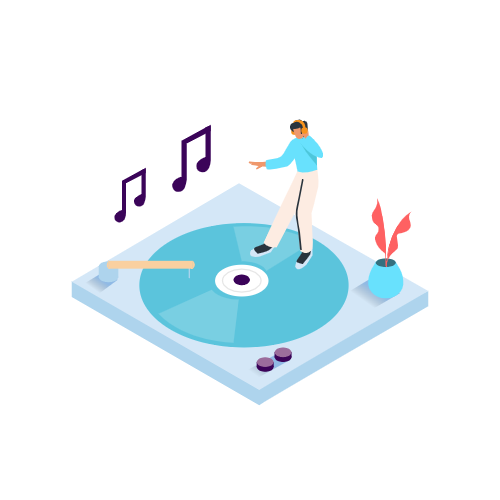
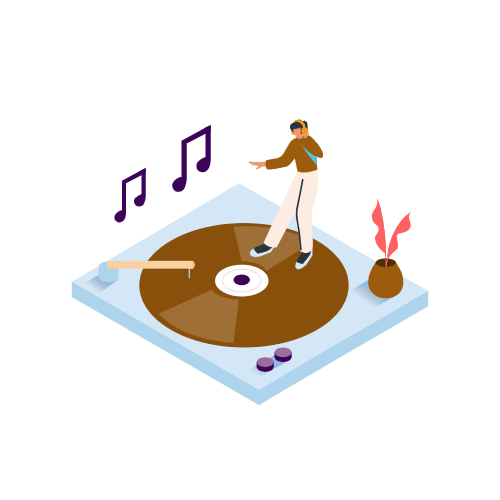
music project completed

Changed region(s): [[0.27, 0.42, 0.81, 0.72], [0.51, 0.27, 0.66, 0.36]]

diff --git a/css/main.css b/css/main.css
@@ -19,7 +19,7 @@ a, a:hover {
 }
 
 .navbar {
-  background-color: #0F044C;
+  background-color: #9D5C0D;
   width: 100vw;
   line-height: 8rem;
 }
@@ -37,7 +37,7 @@ a, a:hover {
 }
 
 .navbar .container .navbar-brand:hover {
-  color: #ac1212;
+  color: #F7D08A;
   -webkit-filter: drop-shadow(0 1.5rem 1rem rgba(255, 255, 255, 0.5));
           filter: drop-shadow(0 1.5rem 1rem rgba(255, 255, 255, 0.5));
 }
@@ -56,19 +56,20 @@ a, a:hover {
 
 .navbar .nav-item-list .button {
   padding: 0.8rem 3.2rem;
-  background-color: #ac1212;
-  color: #EEEEEE;
+  background-color: #F7D08A;
+  color: #777373;
   line-height: 3rem;
   font-size: 1.6rem;
   text-transform: capitalize;
   -webkit-box-shadow: 0px 8px 15px rgba(0, 0, 0, 0.1);
           box-shadow: 0px 8px 15px rgba(0, 0, 0, 0.1);
   border-radius: 4.5rem;
+  font-weight: 600;
 }
 
 .navbar .nav-item-list .button:hover {
-  background-color: #EEEEEE;
-  color: #ac1212;
+  background-color: #777373;
+  color: #F7D08A;
   -webkit-box-shadow: 0px 11.5px 20px rgba(196, 181, 181, 0.747);
           box-shadow: 0px 11.5px 20px rgba(196, 181, 181, 0.747);
   -webkit-transform: translateY(-7px);
@@ -94,6 +95,146 @@ a, a:hover {
   to {
     -webkit-transform: rotate(-2deg);
             transform: rotate(-2deg);
+  }
+}
+
+.hero {
+  background-color: #E5890A;
+  padding: 2rem 0;
+}
+
+.hero .hero_text {
+  display: -webkit-box;
+  display: -ms-flexbox;
+  display: flex;
+  -webkit-box-pack: center;
+      -ms-flex-pack: center;
+          justify-content: center;
+  -webkit-box-align: start;
+      -ms-flex-align: start;
+          align-items: flex-start;
+  -webkit-box-orient: vertical;
+  -webkit-box-direction: normal;
+      -ms-flex-direction: column;
+          flex-direction: column;
+  text-transform: capitalize;
+}
+
+.hero .hero_text_heading {
+  font-weight: 700;
+  font-size: 4rem;
+  color: #EEEEEE;
+  margin-bottom: 4rem;
+}
+
+.hero .hero_text_para {
+  color: #EEEEEE;
+  margin-bottom: 4rem;
+  line-height: 2rem;
+}
+
+.hero .hero_text .hero_span {
+  color: #F7D08A;
+}
+
+.hero .hero_text a {
+  padding: 0.8rem 3.2rem;
+  background-color: #F7D08A;
+  color: #777373;
+  line-height: 3rem;
+  font-size: 1.6rem;
+  text-transform: capitalize;
+  -webkit-box-shadow: 0px 8px 15px rgba(0, 0, 0, 0.1);
+          box-shadow: 0px 8px 15px rgba(0, 0, 0, 0.1);
+  border-radius: 4.5rem;
+  font-weight: 600;
+}
+
+.hero .hero_text .hero_button1 {
+  margin-right: 1rem;
+}
+
+.hero .hero_text .hero_button2 {
+  background-color: grey;
+  color: #dbd3d3;
+}
+
+.hero .hero_figure {
+  display: -webkit-box;
+  display: -ms-flexbox;
+  display: flex;
+  -webkit-box-pack: center;
+      -ms-flex-pack: center;
+          justify-content: center;
+  -webkit-box-align: end;
+      -ms-flex-align: end;
+          align-items: flex-end;
+  -webkit-box-orient: vertical;
+  -webkit-box-direction: normal;
+      -ms-flex-direction: column;
+          flex-direction: column;
+}
+
+.hero .hero_figure img {
+  -webkit-filter: drop-shadow(0 1.5rem 1rem rgba(0, 0, 0, 0.5));
+          filter: drop-shadow(0 1.5rem 1rem rgba(0, 0, 0, 0.5));
+  -webkit-animation: image_hero 1s linear infinite alternate;
+          animation: image_hero 1s linear infinite alternate;
+}
+
+@-webkit-keyframes image_hero {
+  0% {
+    -webkit-transform: scale(0.97);
+            transform: scale(0.97);
+  }
+  100% {
+    -webkit-transform: scale(1);
+            transform: scale(1);
+  }
+}
+
+@keyframes image_hero {
+  0% {
+    -webkit-transform: scale(0.97);
+            transform: scale(0.97);
+  }
+  100% {
+    -webkit-transform: scale(1);
+            transform: scale(1);
+  }
+}
+
+@media only screen and (max-width: 960px) {
+  html {
+    font-size: 55%;
+  }
+  .navbar {
+    line-height: 4rem;
+  }
+  .nav-item-list {
+    text-align: center;
+  }
+  .navbar .nav-item-list .navbar-nav .nav-item {
+    padding-right: 0%;
+  }
+  .navbar .nav-item-list .navbar-nav li:last-child {
+    padding-right: 0%;
+  }
+  .btn_content .hero_button1, .btn_content .hero_button2 {
+    display: block;
+    margin: 0 auto 1rem auto;
+  }
+}
+
+@media only screen and (max-width: 720px) {
+  html {
+    font-size: 45%;
+  }
+}
+
+@media only screen and (max-width: 480px) {
+  html {
+    font-size: 30%;
   }
 }
 /*# sourceMappingURL=main.css.map */

diff --git a/scss/main.scss b/scss/main.scss
@@ -17,6 +17,7 @@ body{
 a, a:hover{
     text-decoration: none;
 }
+// nav start
 .navbar{
     background-color: $primary-color;
     width: 100vw;
@@ -57,5 +58,98 @@ a, a:hover{
         to{
             transform: rotate(-2deg);
         }
+    }
+}
+// nav end
+// hero start
+.hero{
+    background-color: $secondary-color;
+    padding: 2rem 0;
+    #{&}_text{
+        @include centerize_content(flex-start);
+        text-transform: capitalize;
+        &_heading{
+            font-weight: 700;
+            font-size: 4rem;
+            color: $text-color;
+            margin-bottom: 4rem;
+        }
+        &_para{
+            color: $text-color;
+            margin-bottom: 4rem;
+            line-height: 2rem;
+        }
+        & .hero_span{
+            color: $btn-color;
+        }
+        & a{
+            @include mybtn;
+        }
+        & .hero_button1{
+            margin-right: 1rem;
+        }
+        & .hero_button2{
+            background-color: grey;
+            color: rgb(219, 211, 211);
+        }
+
+    }
+    #{&}_figure{
+        @include centerize_content(flex-end);
+        & img{
+            filter: drop-shadow(0 1.5rem 1rem rgba(0, 0, 0, 0.5));
+            animation: image_hero 1s linear infinite alternate;
+        }
+    
+       
+    }
+    @keyframes image_hero {
+        0%{
+            transform: scale(0.97);
+        }
+        100%{
+           transform: scale(1);
+        }
+    }
+}
+// hero end
+
+// media
+@media only screen and (max-width: 960px) {
+    html{
+        font-size: 55%;
+    }
+    .navbar{
+        line-height: 4rem;
+        
+    }
+    .nav-item-list{
+        text-align: center;
+    } 
+    .navbar .nav-item-list .navbar-nav .nav-item {
+        padding-right: 0%;
+    }
+    .navbar .nav-item-list .navbar-nav li:last-child {
+        padding-right: 0%;
+    }
+
+    .btn_content{
+       
+        .hero_button1,.hero_button2{
+            display: block;
+            margin: 0 auto 1rem auto;
+            
+        }
+    }
+}
+@media only screen and (max-width: 720px) {
+    html{
+        font-size: 45%;
+    }
+    
+}
+@media only screen and (max-width: 480px) {
+    html{
+        font-size: 30%;
     }
 }

diff --git a/index.html b/index.html
@@ -51,16 +51,19 @@
     <div class="hero">
         <div class="container">
             <div class="row">
-                <div class="col-lg-6 col-12">
+                <div class="col-lg-6 col-12 hero_text">
                     <div>
-                        <h3>music for everyone</h3>
-                        <p>
+                        <h3 class="hero_text_heading"><span class="hero_span">music</span> for everyone</h3>
+                        <p class="hero_text_para">
                             Lorem ipsum dolor, sit amet consectetur adipisicing elit. Est error voluptates optio commodi tempora deserunt eaque illum atque magni? Id!
                         </p>
-                        <a href="">download app now start 30 days free trail</a>
+                        <div class="d-lg-flex btn_content">
+                          <a href="" class="hero_button1">download app now</a>
+                          <a href="" class="hero_button2">start 30 days free trail</a>
+                        </div>
                     </div>
                 </div>
-                <div class="col-lg-6 d-lg-flex d-none">
+                <div class="col-lg-6 d-lg-flex d-none hero_figure">
                     <figure>
                         <img src="assets/Music_Isometric.png" alt="music image" class="img-fluid">
                     </figure>

diff --git a/scss/_mixin.scss b/scss/_mixin.scss
@@ -1,16 +1,23 @@
 @mixin mybtn {
     padding: 0.8rem 3.2rem;
     background-color: $btn-color;
-    color: $text-color;
+    color: $btn-text-color;
     line-height: 3rem;
     font-size: 1.6rem;
     text-transform: capitalize;
     box-shadow: 0px 8px 15px rgba(0,0,0,0.1);
     border-radius: 4.5rem;
+    font-weight: 600;
 }
 @mixin mybtnhover {
-    background-color: $text-color;
+    background-color: $btn-text-color;
     color: $btn-color;
     box-shadow: 0px 11.5px 20px rgba(196, 181, 181, 0.747);
     transform: translateY(-7px);
+}
+@mixin centerize_content($property_value) {
+    display: flex;
+    justify-content: center;
+    align-items: $property_value;
+    flex-direction: column;
 }

diff --git a/scss/_variables.scss b/scss/_variables.scss
@@ -1,5 +1,5 @@
-$primary-color:#0F044C;
-$secondary-color: #141E61;
+$primary-color: #9D5C0D;
+$secondary-color: #E5890A;
 $text-color: #EEEEEE;
-$btn-color: rgb(172, 18, 18);
-$btn-text-color: #000000;
+$btn-color: #F7D08A;
+$btn-text-color: rgb(119, 115, 115);
